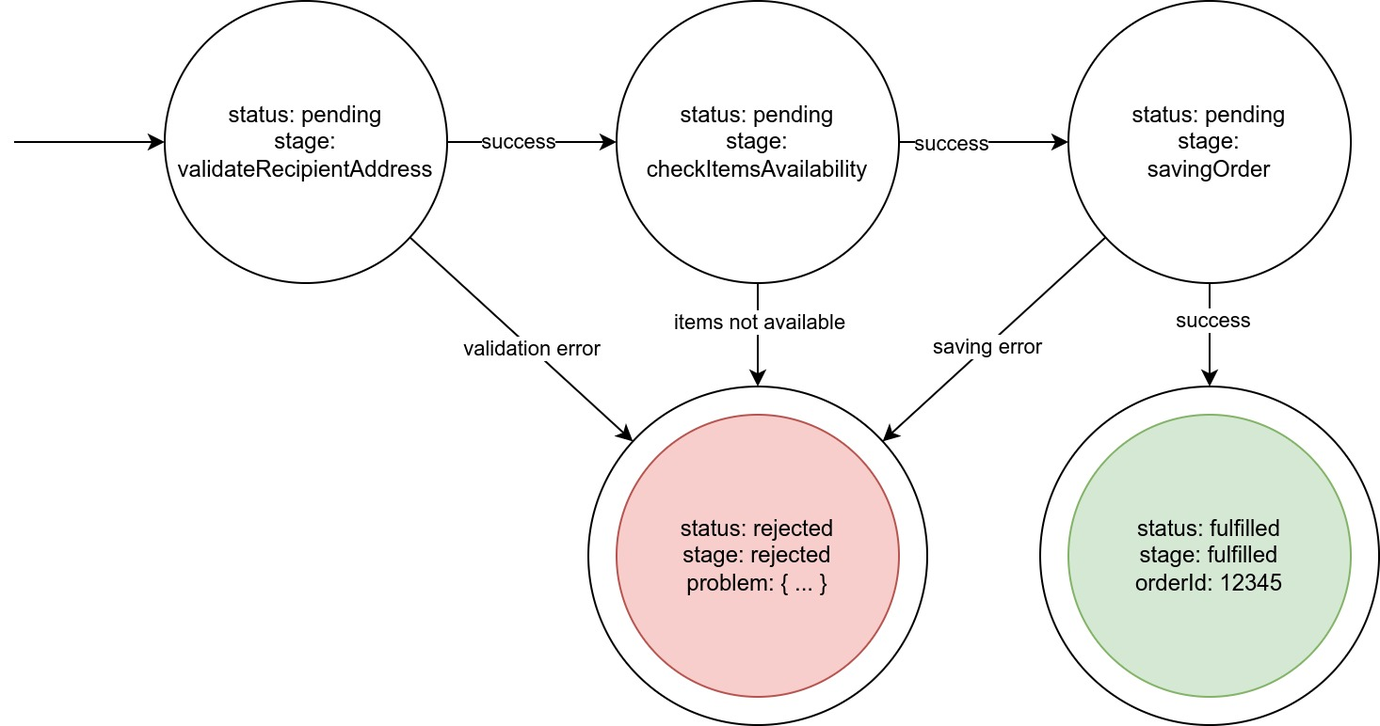
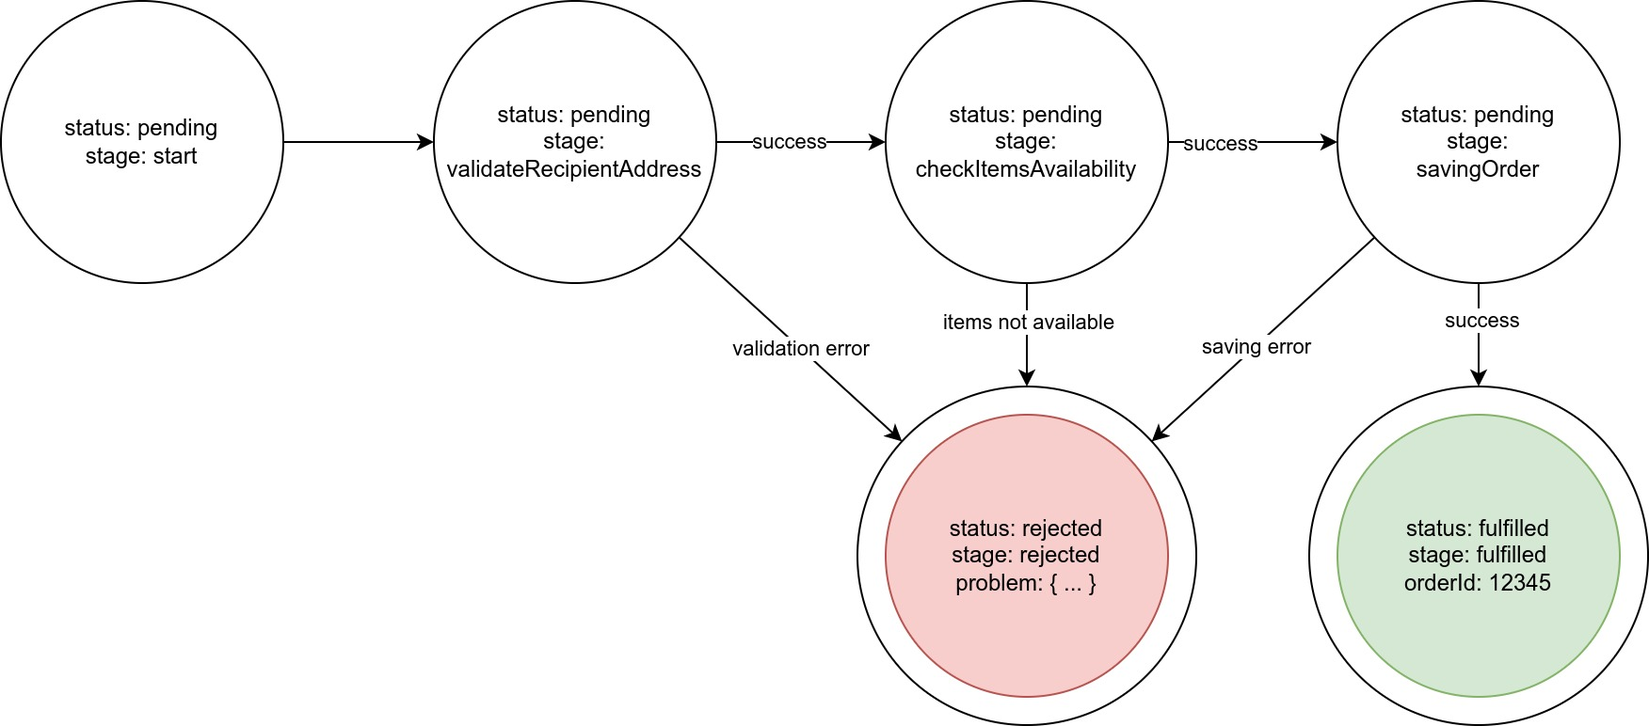
docs specification: improve understandability

diff --git a/docs/specification.md b/docs/specification.md
@@ -105,13 +105,13 @@ Content-type: application/vnd.rollun+json
 **Сценарій 1**
 
 1. Клієнт надсилає POST запит на створення ресурсу
-2. Сервер успішно виконує запит
+2. Сервер успішно виконує запит, і повертає відповідь з `201 Created` статус кодом
 3. Клієнт не отримує відповідь через проблеми з мережею
 4. Клієнт надсилає повторний ідентичний запит
 
 *Результат:*
 
-Клієнт отримує відповідь таку саму як на кроці 2. Ресурс створюється один раз на кроці 2.
+Клієнт отримує відповідь таку саму як на кроці 2, але з кодом `200 OK`. Ресурс створюється один раз на кроці 2.
 
 **Сценарій 2**
 
@@ -135,7 +135,7 @@ Content-type: application/vnd.rollun+json
 
 *Результат:*
 
-Сервер створить ресурс на кроці 3. Крок 2 ніяк не вплине на створення ресурсу. Клієнт може безпечно надсилати запити з 
+Сервер створить ресурс на кроці 4. Крок 2 ніяк не вплине на створення ресурсу. Клієнт може безпечно надсилати запити з 
 кроку 1 і отримувати відповідь як на кроці 2.
 
 **Сценарій 4**
@@ -440,7 +440,8 @@ GET /articles/AB123
 > 
 > `{document}` - ідентифікатор документа
 > 
-> При цьому документ може мати дочірню колекцію, яка також буде містити документи.
+> При цьому документ може мати дочірню колекцію, яка також буде містити документи, які своєю чергою теж можуть мати
+> дочірні колекції й так далі.
 
 ![collection](img/specification/collection.png)
 
@@ -520,10 +521,10 @@ GET /articles/AB123?select=title,status
 
 #### 3.3.4 Операції над документом
 
-| URI                   | GET                                             | POST    | PUT                                                                  | PATCH                                     | DELETE                           |
-|-----------------------|-------------------------------------------------|---------|----------------------------------------------------------------------|-------------------------------------------|----------------------------------|
-| /customers/1          | Отримання відомостей про клієнта 1              | Помилка | Створення або повне оновлення відомостей про клієнта 1               | Часткове оновлення клієнта 1              | Видалення клієнта 1              |
-| /customers/1/orders/2 | Отримання відомостей про замовлення 2 клієнта 1 | Помилка | Стволрення або повне оновлення відомостей про замовлення 2 клієнта 1 | Часткове оновлення замовлення 2 клієнта 1 | Видалення замовлення 2 клієнта 1 |
+| URI                   | GET                                             | POST    | PUT                                                                 | PATCH                                     | DELETE                           |
+|-----------------------|-------------------------------------------------|---------|---------------------------------------------------------------------|-------------------------------------------|----------------------------------|
+| /customers/1          | Отримання відомостей про клієнта 1              | Помилка | Створення або повне оновлення відомостей про клієнта 1              | Часткове оновлення клієнта 1              | Видалення клієнта 1              |
+| /customers/1/orders/2 | Отримання відомостей про замовлення 2 клієнта 1 | Помилка | Створення або повне оновлення відомостей про замовлення 2 клієнта 1 | Часткове оновлення замовлення 2 клієнта 1 | Видалення замовлення 2 клієнта 1 |
 
 POST запит повертає помилку при використанні з URL документом. Якщо вам потрібно створити новий ресурс, то 
 використовуйте POST запит на URL колекції, так як описанно нижче, в розділі про колекції.
@@ -532,26 +533,21 @@ POST запит повертає помилку при використанні 
 
 Скінченний автомат - це підвид документа, що описує ресурс, який в ході свого існування може змінювати стани.
 
-*Правило*
-
-> Скінченний автомат повинен знаходитись в колекції `/fsm`: `/fsm/order-creation-tasks`, `/fsm/articles/123`
-
 ##### 3.3.5.1 Стани скінченного автомата
 
-Скінченний автомат має стани. Кожен стан скінченного автомата однозначно описується полем `stage`. Це поле є
-обов'язковим, та значення, які це поле може приймати, повинні бути описані в маніфесті як enum.
+*Правило*
 
-Серед станів можна виділити початкові та кінцеві.
+> **Стан скінченного автомата міститься в полі `stage`**. Це поле є обов'язковим, та значення, які це поле може 
+> приймати, повинні бути описані в маніфесті як enum.
+
+Серед станів можна виділити початковий, проміжні та кінцеві.
 
 *Початковий стан* - це той в який скінченний автомат може потрапити після свого створення. Початковий стан може бути
 лише один.
 
 *Кінцеві стани* - це такі стани, після потрапляння в які, зміна стану скінченного автомата більше не можлива. Кінцевий
-стан повинен бути хоча б один.
-
-Скінченний автомат обов'язково починає своє виконання з одного з початкових станів та закінчує кінцевим.
-
-В маніфесті в описі поля `stage` потрібно зазначити який стан є початковим, та які кінцевими.
+стан повинен бути хоча б один. Після потрапляння автомата в кінцевий стан він залишається в ньому назавжди й вже не 
+може змінювати стани на інші.
 
 Також скінченний автомат може мати додаткові поля. На прикладі нижче таким додатковим полем є `orderId`, яке з'являється
 при `fulfilled` стейджі.
@@ -561,30 +557,69 @@ POST запит повертає помилку при використанні 
 - `fulfilled` - якщо автомат в кінцевому стані і його виконання завершилось успішно
 - `rejected` - якщо автомат в кінцевому стані і його виконання завершилось невдало
 
-Кожен стейдж однозначно відповідає одному зі статусів. Якщо автомат в кінцевому стейджі, то поле `status` матиме
-значення або `fulfilled` або `rejected`
 
-Якщо немає потреби в детальних стейджах, то поле `stage` може бути рівним полю `status`. Тобто також приймати три
-значення: `pending`, `fulfilled` та `rejected`
+*Правило*
 
-Поле `problem` у форматі [RFC-7807](https://www.rfc-editor.org/rfc/rfc7807) (TODO: посилання на опис формату помилки в
-специфікації) є обов'язковим при статусі `rejected`
+> **Кожен стейдж однозначно відповідає одному зі статусів.** Тобто в нас є початковий та проміжні стейджі, що 
+> відповідають статусу pending. Є кінцеві невдалі стейджі, що відповідають статусу rejected. Та кінцеві вдалі, що 
+> відповідають статусу fulfilled. **Початковий stage повинен називатися start.**
 
-Приклад скінченного автомата по створенню замовлення.
+Приклад запису стейджів в маніфесті:
+
+```yaml
+FSM:
+  type: object
+  properties:
+    stage:
+      type: string
+      oneOf:
+        - $ref: '#/components/schemas/PendingStage'
+        - $ref: '#/components/schemas/FulfilledStage'
+        - $ref: '#/components/schemas/RejectedStage'
+    status:
+      type: string
+      enum:
+        - pending
+        - rejected
+        - fulfilled
+
+  # Опис стейджів, що належать статусу pending
+  PendingStage:
+    type: string
+    enum:
+      - start
+      - anotherState
+
+  # Опис стейджів, що належать статусу fulfilled
+  FulfilledStage:
+    type: string
+    enum:
+      - completed
+
+  # Опис стейджів, що належать статусу rejected
+  RejectedStage:
+    type: string
+    enum:
+      - error
+```
+
+Поле `problem` у форматі [application/vnd.rollun-error+json](#45-applicationvndrollun-errorjson) є обов'язковим при 
+статусі `rejected`
 
 ![Order creating stages](img/specification/creating-order-stages.jpg)
+<p style="text-align: center;">Рис. Приклад скінченного автомата по створенню замовлення.</p>
 
 ##### 3.3.5.2 Створення скінченного автомата
 
 *Правило*
 
-> Створення скінченного автомата - це завжди синхронна операція. У відповідь на створення лонг таску ми отримуємо лише
-> його ідентифікатор у заголовку Location, а не повну сутність.
+> У відповідь на створення скінченного автомата ми отримуємо лише його ідентифікатор у заголовку Location, а не повну 
+> сутність.
 
 Example request
 
 ```http request
-POST /fsm/order-creation-tasks
+POST /order-creation-tasks
 Content-Type: application/vnd.rollun-request+json
 ```
 
@@ -607,50 +642,38 @@ Example response
 
 ```http
 HTTP/1.1 200 OK
-Location: /fsm/order-creation-tasks/qwerty123
+Location: /order-creation-tasks/qwerty123
 ```
 
-На майбутнє ми залишаємо до розгляду варіант, коли створення скінченного автомата може бути асинхронною операцією. В
-цьому випадку ми б у відповідь на POST запит отримали б код 202 Accepted та ідентифікатор ресурсу через який можна
-відстежувати стан виконання операції. Але поки що вважаємо, що створення скінченного автомата - завжди синхронна
-операція.
-
-##### 3.3.5.3 Ідемпотентність скінченного автомата
-
-При створенні лонг таску обов'язково передається ключ ідемпотентності. Тоді повторний запит на створення лонг таску з
-цим самим ключем вже не створить лонг таск, а або поверне помилку 409 Conflict, або екземпляр, вже створенного минулим
-запитом, лонг таску. Це залежить від реалізації сервера.
-
-Тут працює правило один ключ ідемпотнентності - один екземпляр автомата. Тому, якщо, наприклад, виконання задачі
-завершилось помилкою, що призвело до rejected статусу, то цей лонг таск вже не можна ніяк змінити (тому що rejected -
-кінцевий стан) та, наприклад, спробувати його перезапустити. Єдиний шлях повторно спробувати виконати дію - це створити
-новий лонг таск з новим ключем ідемпотентності.
-
-##### 3.3.5.4 Перехід між стейджами скінченного автомата
+##### 3.3.5.3 Перехід між стейджами скінченного автомата
 *Правило*
 
-> Стейджі лскінченного автомата можуть змінюватись як сервером, так і клієнтом, якщо це допустимо.
+> Стейджі скінченного автомата можуть змінюватись як сервером, так і клієнтом, якщо це допустимо.
 >
-> Клієнт може змінювати стейджі за допомогою http запитів, що завчасно описані в маніфесті. При цьому усі запити повинні
-> бути синхронними. Запити можуть бути двох видів:
-> 1. PATCH & PUT запити, що змінюють поля скінченного автомата.
-> 2. POST & GET /actions/... - екшени, що переводять скінченний автомат з одного стейджу в інший
+> Клієнт може змінювати стейджі за допомогою http запитів, що завчасно описані в маніфесті. 
+> 
+> Запити можуть бути наступних видів у порядку приорітету:
+> 1. PATCH & PUT запити, що змінюють поля скінченного автомата, окрім полів `stage` та `status`. Автомат повинен сам
+> реагувати на зміни своїх полів та змінювати `stage`.
+> 2. POST /actions/... - екшени, що переводять скінченний автомат з одного стейджу в інший
+> 3. Пряме редагування поля `stage` клієнтом. Не рекомендується до використання.
 
 При цьому, коли скінченний автомат переходить в якийсь із стейджів (навіть самого в себе), то на сервері можуть
 запускатись трігери, які також можуть змінити стейдж скінченного автомата.
 
 *Правило*
 
-> Якщо спробувати виконати запит, що не дозволенний в поточному стейджі лонг таску, то повинна повернутись помилка
-> 409 Conflict.
+> Якщо спробувати виконати запит, що не дозволенний в поточному стейджі скінченного автомата, то повинна повернутись 
+> помилка 409 Conflict or 422 Unprocessable Content (TODO: погодити статус код).
 
-Наприклад уявімо автомат, який описує стани статті. Вона може бути в трьох станах: validationError, readyToPublish,
-published. Поки вона знаходиться в станах validationError та readyToPublish то ми її можемо редагувати за допомогою
-PATCH запиту. При цьому після кожного редагування на сервері запуститься трігер який проведе валідацію статті і в
-залежності від результата може змінити її стейдж. Коли стаття в стейджі readyToPublish то ми можемо запустити екшен
-`POST /articles/actions/publish`, що переведе статтю в published стейдж.
+Наприклад уявімо автомат, який описує стани статті. Вона може бути в чотирьох станах: start, validationError, 
+readyToPublish, published. Поки вона знаходиться в станах validationError та readyToPublish то ми її можемо редагувати 
+за допомогою PATCH запиту. При цьому після кожного редагування на сервері запуститься трігер який проведе валідацію 
+статті і в залежності від результата може змінити її стейдж. Коли стаття в стейджі readyToPublish то ми можемо 
+запустити екшен `POST /articles/actions/publish`, що переведе статтю в published стейдж.
 
 ![Article stages](img/specification/article-stages.jpg)
+<p style="text-align: center;">Рис. Опис скінченного автомата: стаття</p>
 
 ### 3.4 Колекція
 
@@ -810,12 +833,49 @@ query параметр limit. При цьому цей параметр може
 - Низька швидкість роботи в NoSQL базах даних
 - Можливість дублікатів при обході сторінок, якщо при цьому додався новий запис в базу даних.
 
+*Правило*
+
+> Значення `pagination` query параметра `metadata` зарезервовано для того, щоб отримати додаткові дані про пагінацію, 
+> як, наприклад, загальна кількість елементів у колекції.
+
+Request example
+```http request
+GET /resources?metata=pagination
+```
+
+Response example
+```json5
+{
+  "metadata": {
+    "pagination": {
+      "totalCount": 101,
+      "offset": 0,
+      "limit": 20
+    }
+  },
+  "data": [
+    // ...
+  ]
+}
+```
+
 ### 3.4.2 Операції над колекцією
 
-| URI                 | GET                                         | POST                                      | PUT                                                 | PATCH   | DELETE                                 |
-|---------------------|---------------------------------------------|-------------------------------------------|-----------------------------------------------------|---------|----------------------------------------|
-| /customers/         | Отримання колекції усіх клієнтів            | Створення нового клієнта                  | Масоване оновлення колекції клієнтів                | Помилка | Видалення усіх клієнтів                |
-| /customers/1/orders | Отримання колекції усіх замовлень клієнта 1 | Створення нового замовлення для клієнта 1 | Масоване оновлення колекції замовлень для клієнта 1 | Помилка | Видалення усіх замовлень для клієнта 1 |
+| URI                            | GET                                           | POST                                      | PUT                                                           | PATCH   | DELETE                                                  |
+|--------------------------------|-----------------------------------------------|-------------------------------------------|---------------------------------------------------------------|---------|---------------------------------------------------------|
+| /customers/                    | Отримання колекції усіх клієнтів              | Створення нового клієнта                  | Масоване оновлення/створення колекції клієнтів                | Помилка | **ЗАБОРОНЕНО** (Видалення усіх клієнтів.)               |
+| /customers/1/orders            | Отримання колекції усіх замовлень клієнта 1   | Створення нового замовлення для клієнта 1 | Масоване оновлення/створення колекції замовлень для клієнта 1 | Помилка | **ЗАБОРОНЕНО** (Видалення усіх замовлень для клієнта 1) |
+| /customers?query=eq(name,John) | Отримання колекції усіх клієнтів з ім'ям John | Помилка                                   | Масоване оновлення/створення колекції клієнтів з ім'ям John   | Помилка | Видалення усіх клієнтів з ім'ям John                    |
+
+*Правило*
+
+> Використання DELETE методу на колекцію без застосування фільтрації - ЗАБОРОНЕНО.
+
+
+*Правило*
+
+> **При створенні документа заборонено передавати ідентифікатор, з яким повинен створитись документ.** Замість цього
+> використовуйте PUT запит.
 
 ### 3.5 Action
 
@@ -870,6 +930,22 @@ POST /employers/93017373/notifications
 поглянути у бік скінченного автомата, або реалізовувати екшн як лонг таск.
 
 ## 4. Media types
+
+*Правило*
+
+> Формат назви медіа типу: `application/vnd.{name}+{format}`
+> 
+> `application/vnd.` - обов'язковий префікс
+> 
+> `{name}` - унікальна назва медіа типу
+> 
+> `{format}` - формат данних (json,xml,csv, ...). На даний момент підтримується лише `json`. 
+
+
+Медіа типи дозволяють дотримуватись обмеження REST на самоописувані повідомлення. Фактично вони виступають як 
+дискримінатор того, що знаходиться в тілі запиту. Медіа типи можуть бути корисними, коли нам потрібно написати проксі 
+сервер, що буде якось обробляти відповіді чи запити: наприклад логувати специфічні типи помилок, або вести метріки. 
+Також він може бути корисним, щоб розрізняти тип помилки: можна створити два медіа типи, під технічні та бізнес помилки.
 
 ### 4.1 Схема опису
 
@@ -1350,7 +1426,7 @@ info:
   description: API exposing my pet shop’s functionality
   version: "2.1.2"
 servers:
-  - url: https://example.org/petShop/v2
+  - url: https://example.org/openapi/pet-shop/v2
 paths:
   # ...
 ```
@@ -1376,10 +1452,10 @@ paths:
   - Збільшення діапазону enum значень у відповіді
   - Зменшення діапазону enum значень у запиті
   - Зміна сенсу enum значень
+  - Зменшення діапазону enum значень у відповіді (тому що це впливає на валідацію)
 - Видалення ендпоінту
 - Додання обов'язкового поля до запиту
 - Зміна поля з необов'язкового на обов'язкове у запиті
-- Зменшення діапазону enum значень у відповіді (тому що це впливає на валідацію)
 
 Рекомендується, за можливості, запобігати таких змін. Для цього можна, наприклад:
 - замість видалення поля/ендпоінту, можна його відмітити як deprecated.
@@ -1480,7 +1556,7 @@ status:
 Приклад:
 
 ```bash
-$ curl -I https://api.serivce.com/users/octocat
+$ curl -I https://api.serivce.com/openapi/shop/v1/users
 > HTTP/2 200
 > Date: Mon, 01 Jul 2013 17:27:06 GMT
 > x-ratelimit-limit: 60
@@ -1497,7 +1573,7 @@ $ curl -I https://api.serivce.com/users/octocat
 > Якщо рейт ліміти закінчились у лімітному вікні, то сервер ПОВИНЕН повернути 429 код відповіді.
 
 ```bash
-$ curl -I https://api.serivce.com/users/octocat
+$ curl -I https://api.serivce.com/openapi/shop/v1/users
 > HTTP/2 429
 > Date: Mon, 01 Jul 2013 17:27:06 GMT
 > x-ratelimit-limit: 60
@@ -1539,8 +1615,8 @@ $ curl -I https://api.serivce.com/users/octocat
 містити унікально згенероване значення за допомогою якого можна відстежувати цикл життя запиту.
 
 *Правило*
-> API ПОВИННО відправляти заголовок `Lifecycle-Token` з кожним запитом, в якому повинно міститись унікально згенерований
-> рядок.
+> API повинно відправляти заголовок `x-lifecycle-token` з кожним запитом, в якому повинен міститись унікально 
+> згенерований рядок.
 
 ## 9 Обробка помилок
 
